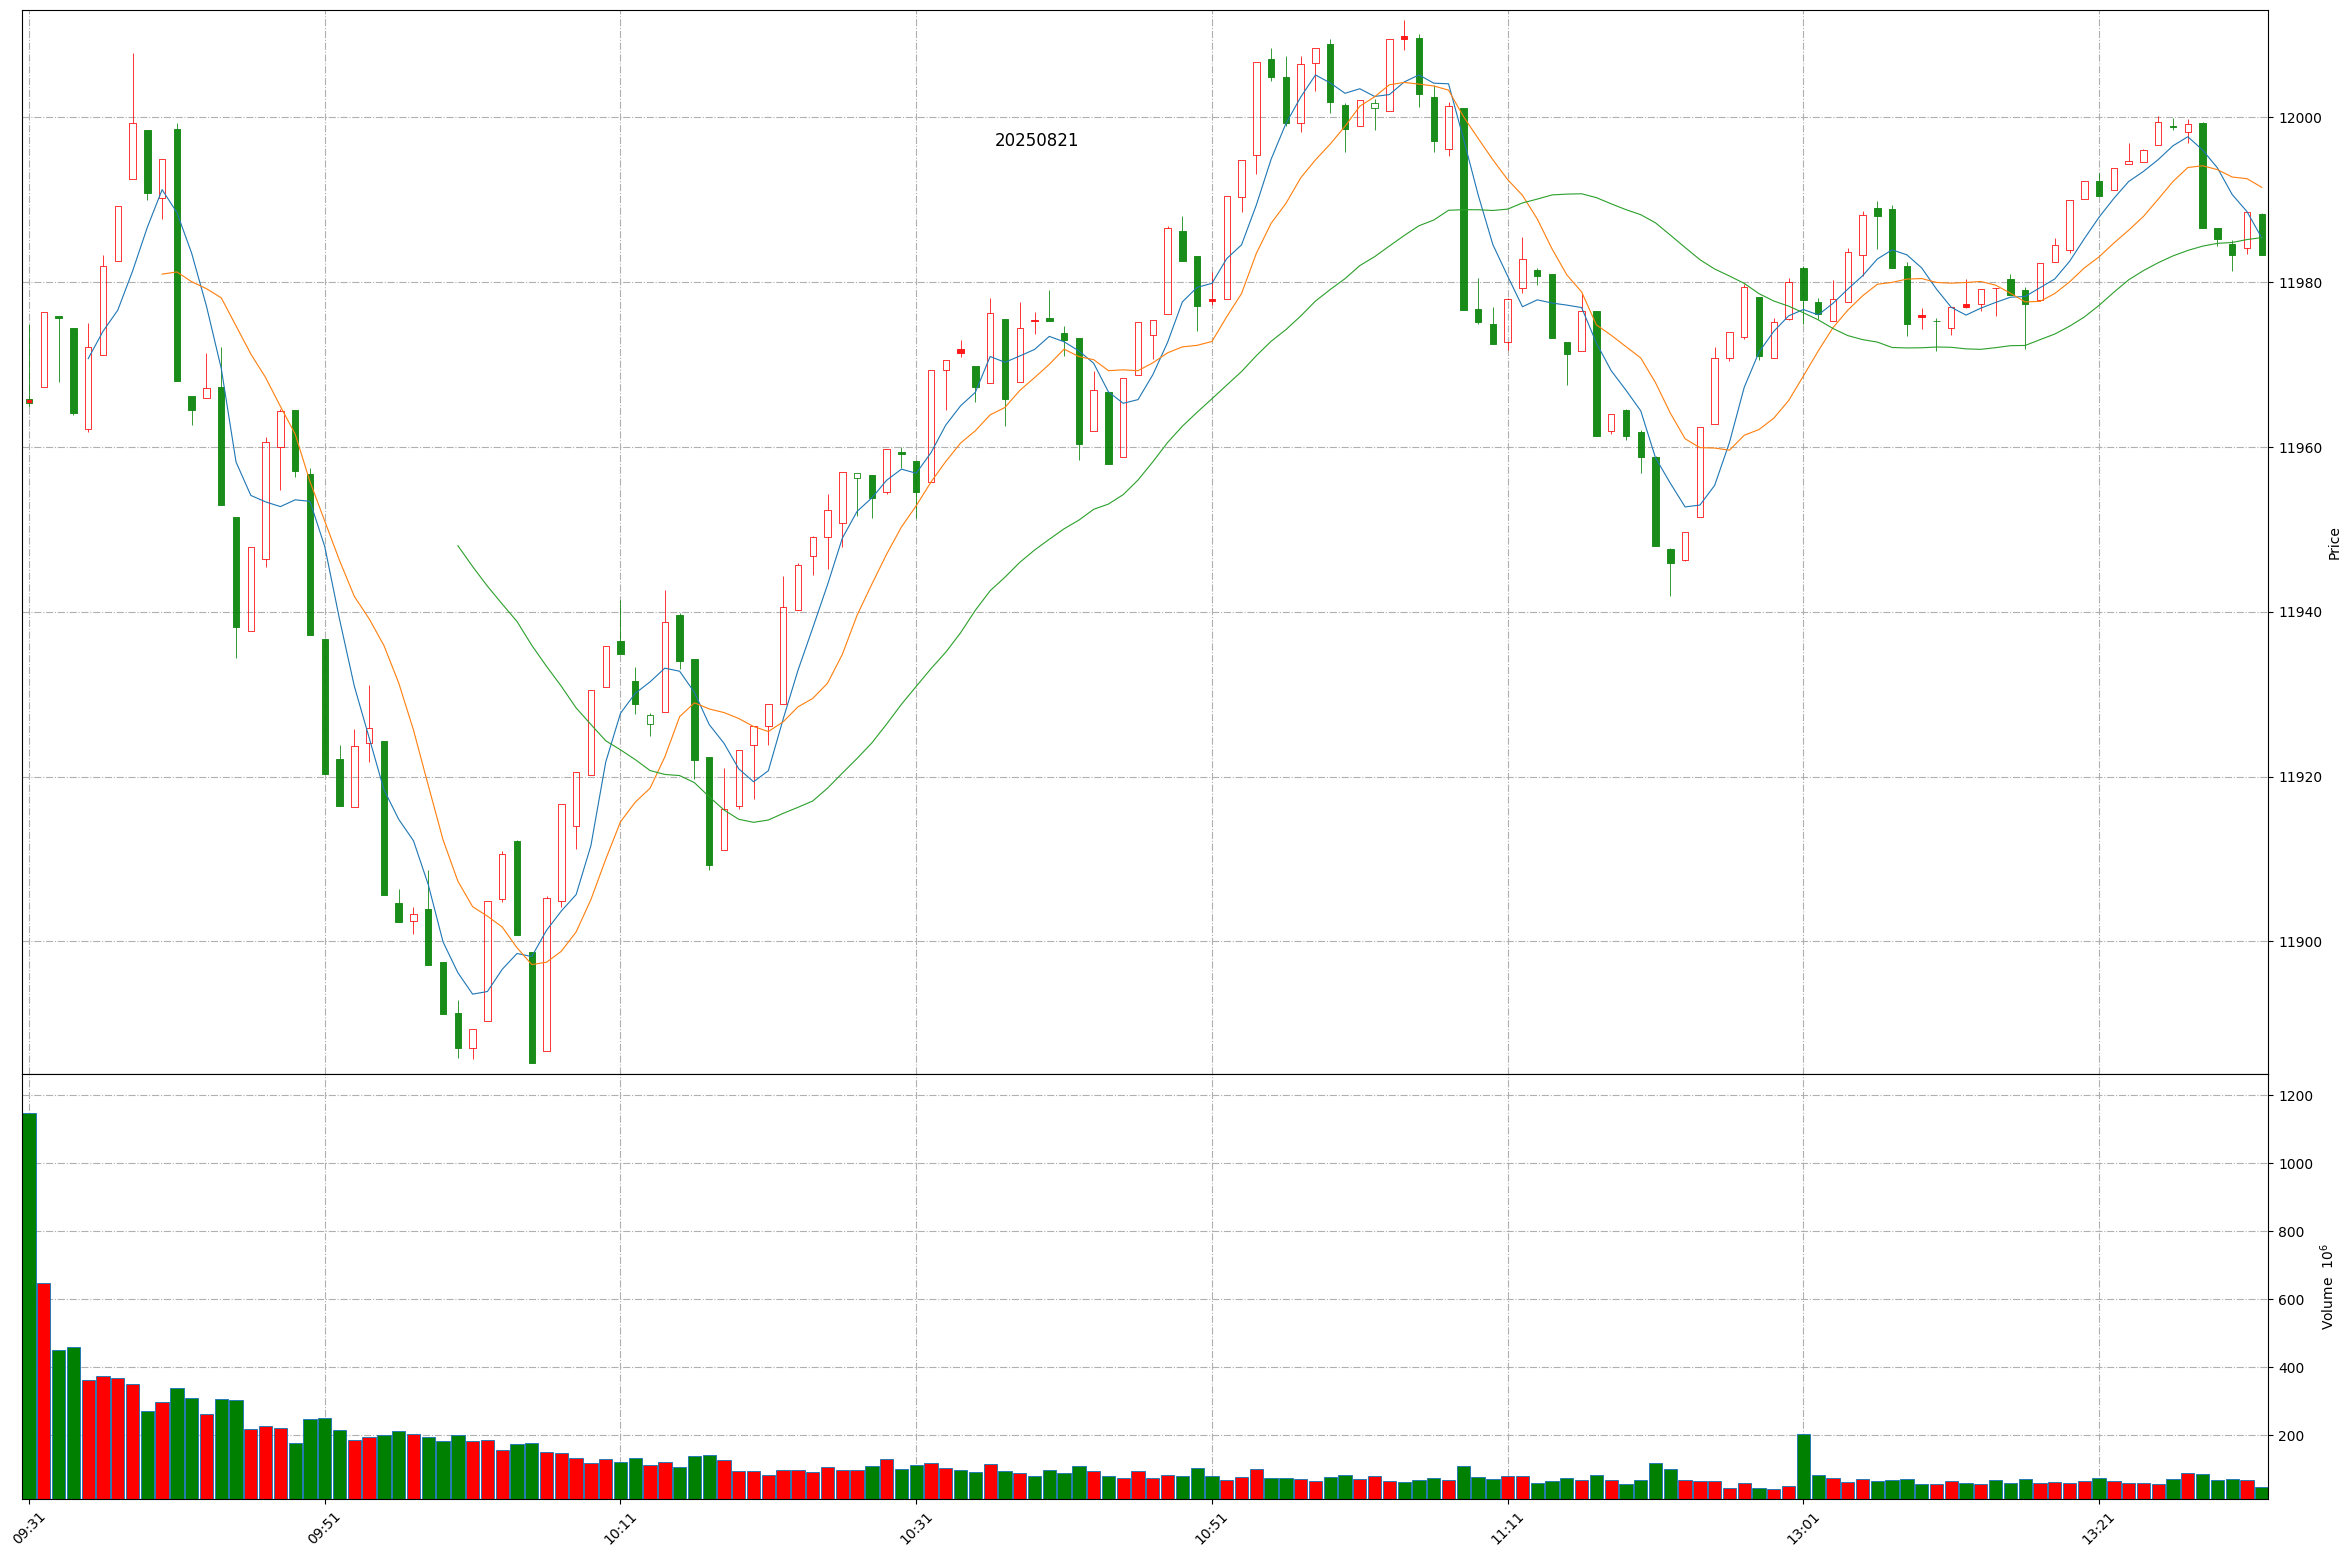
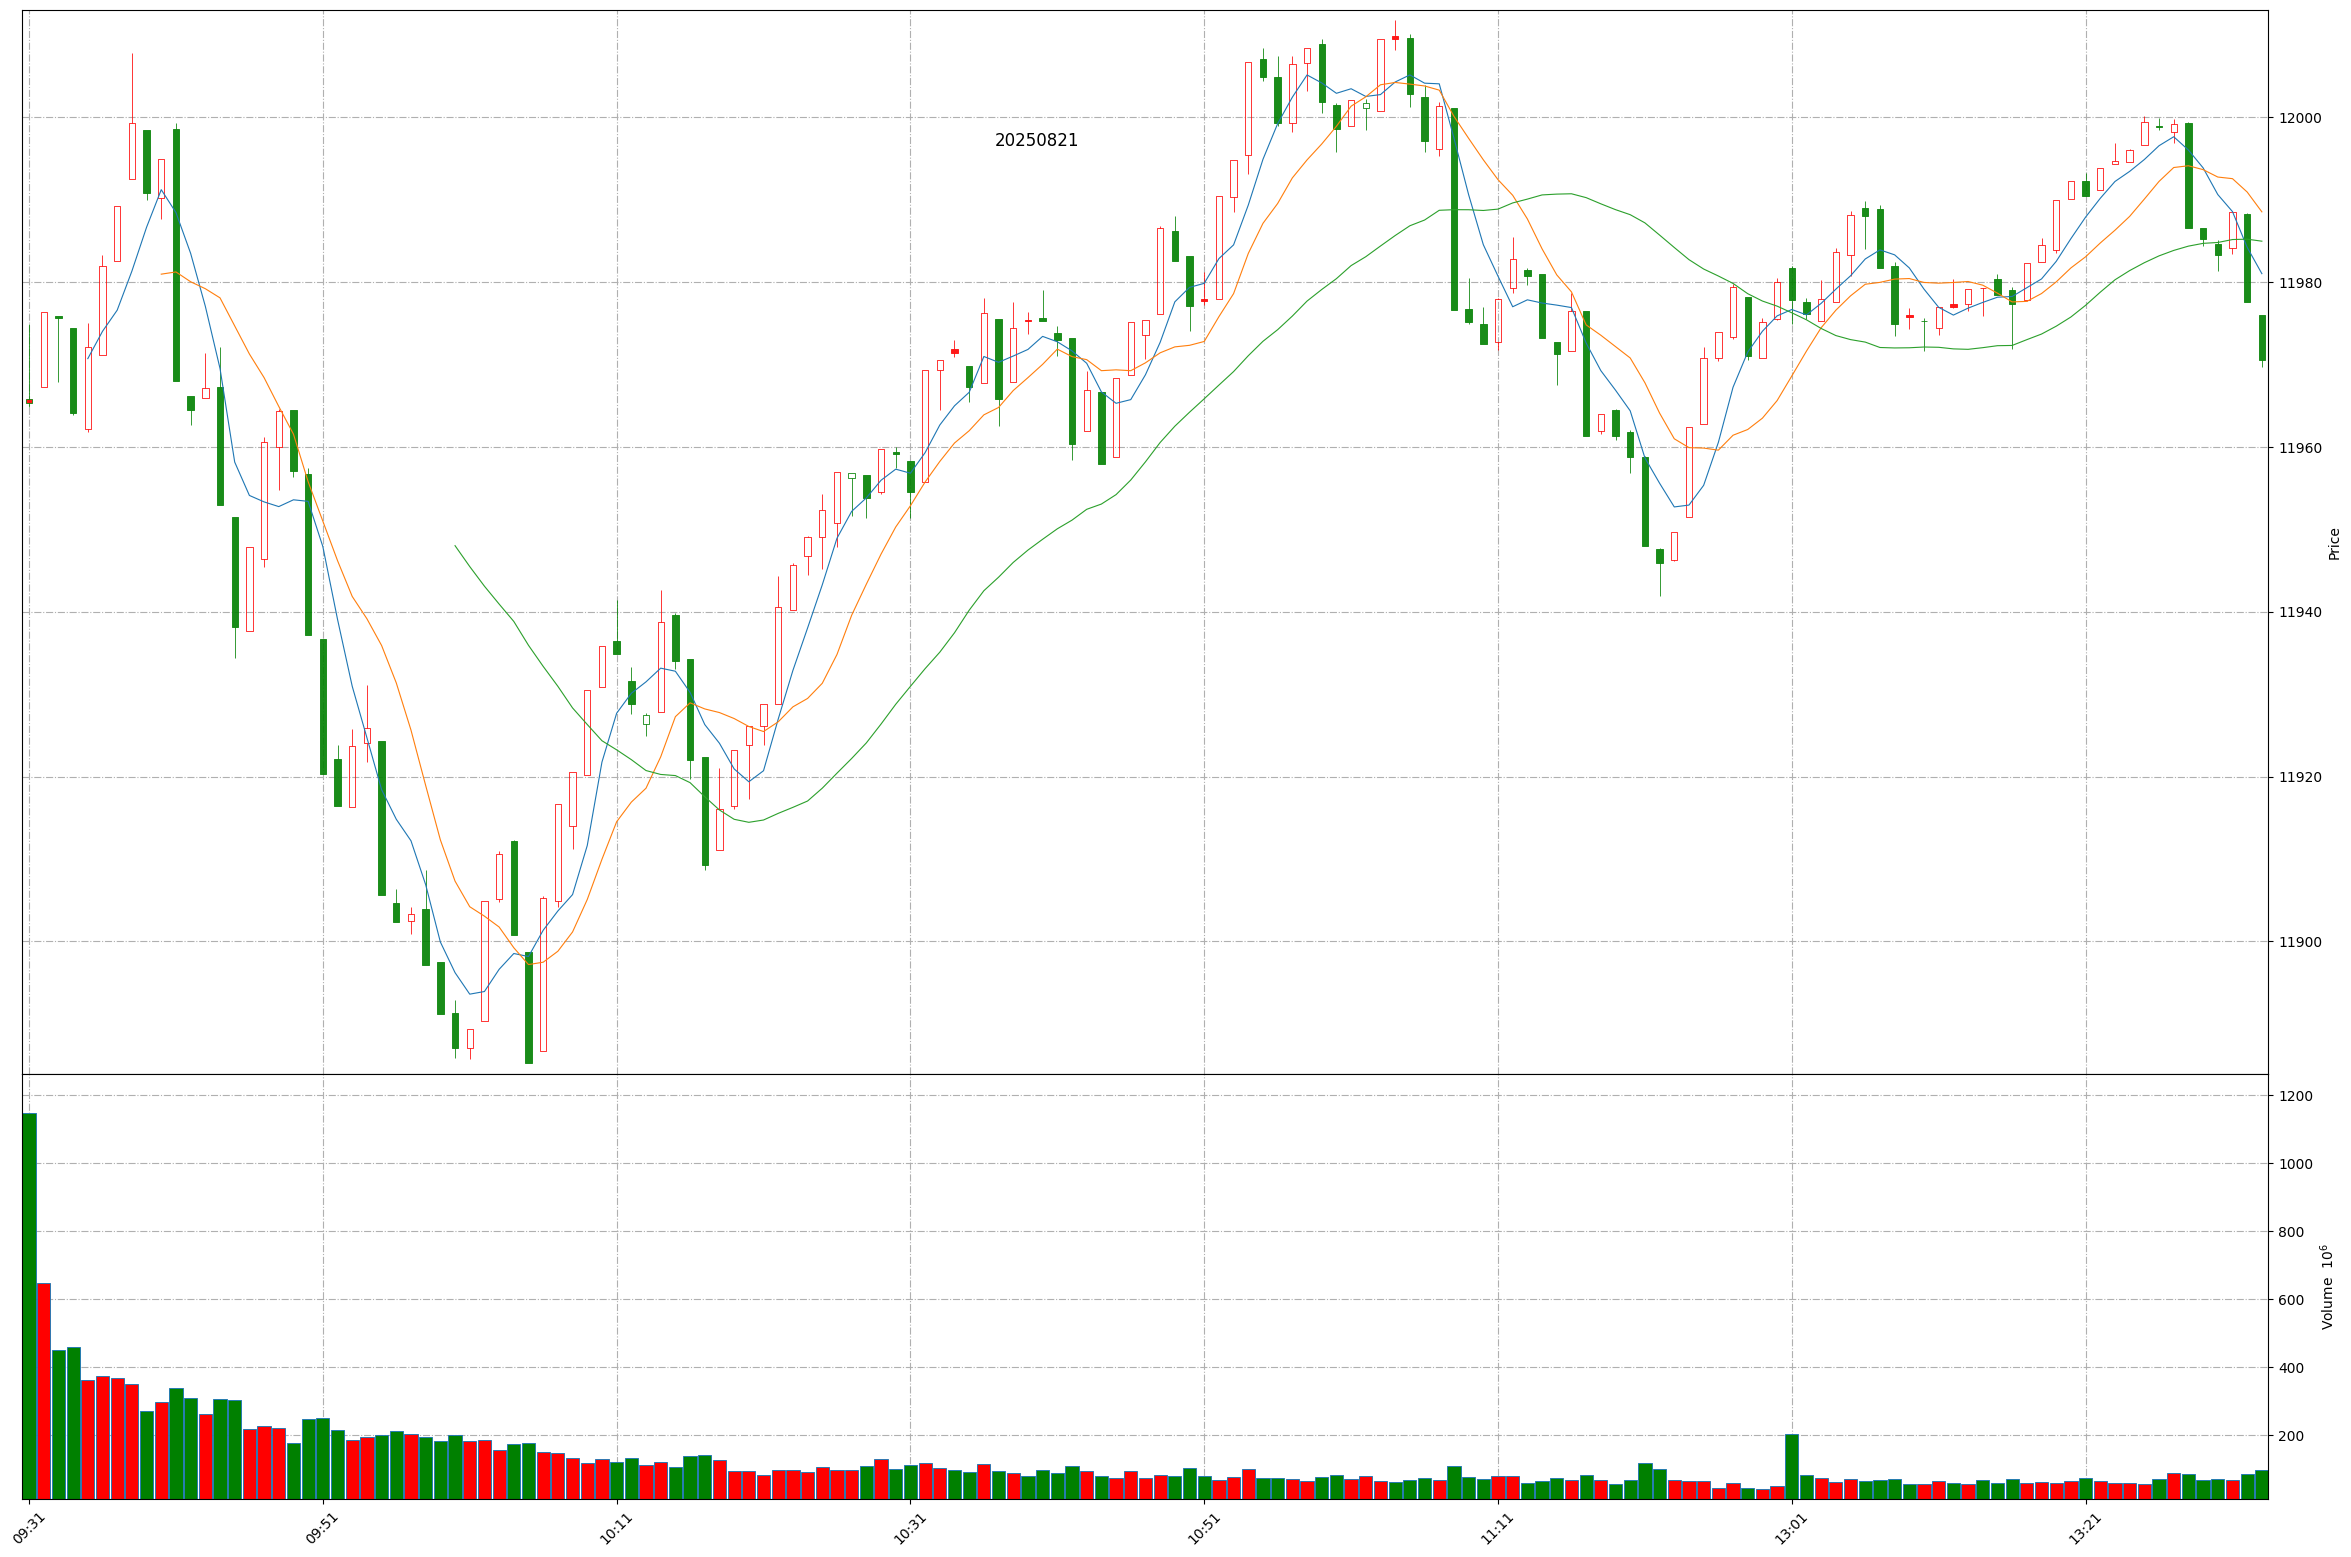
Github action update at 2025-08-21 13:33:13.

diff --git a/README.md b/README.md
@@ -1,11 +1,11 @@
 
 # Daily-A-share-market-quotes 每日 A 股指数（5min 更新）- 20250821
 
-### 上证指数 20250821 13:31
+### 上证指数 20250821 13:33
 ![](./fig/2025/8/20250821-sh000001.png)
 
-### 深证成指 20250821 13:31
+### 深证成指 20250821 13:33
 ![](./fig/2025/8/20250821-sz399001.png)
 
-### 北证50 20250821 13:31
+### 北证50 20250821 13:33
 ![](./fig/2025/8/20250821-bj899050.png)
